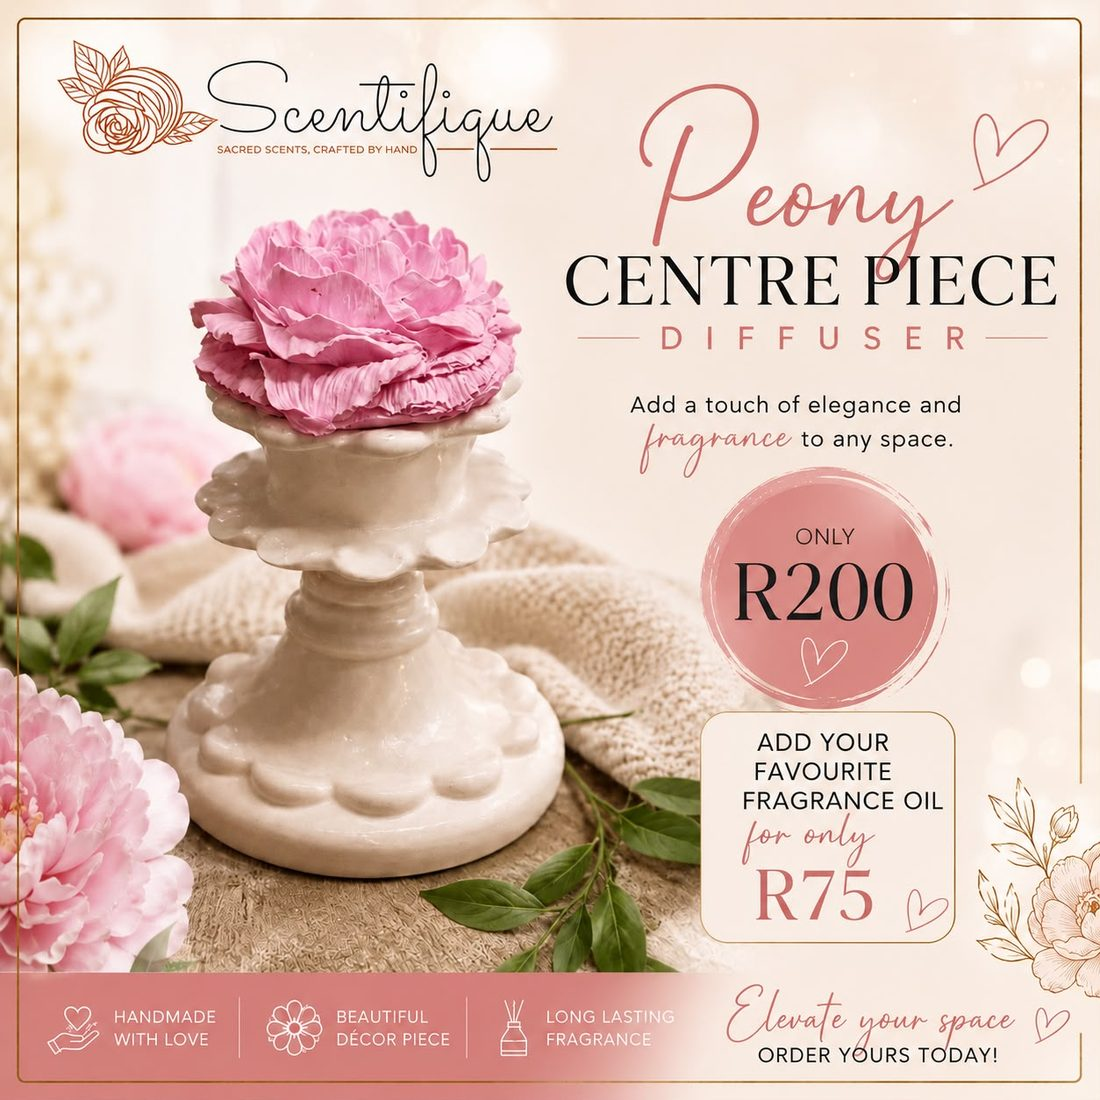
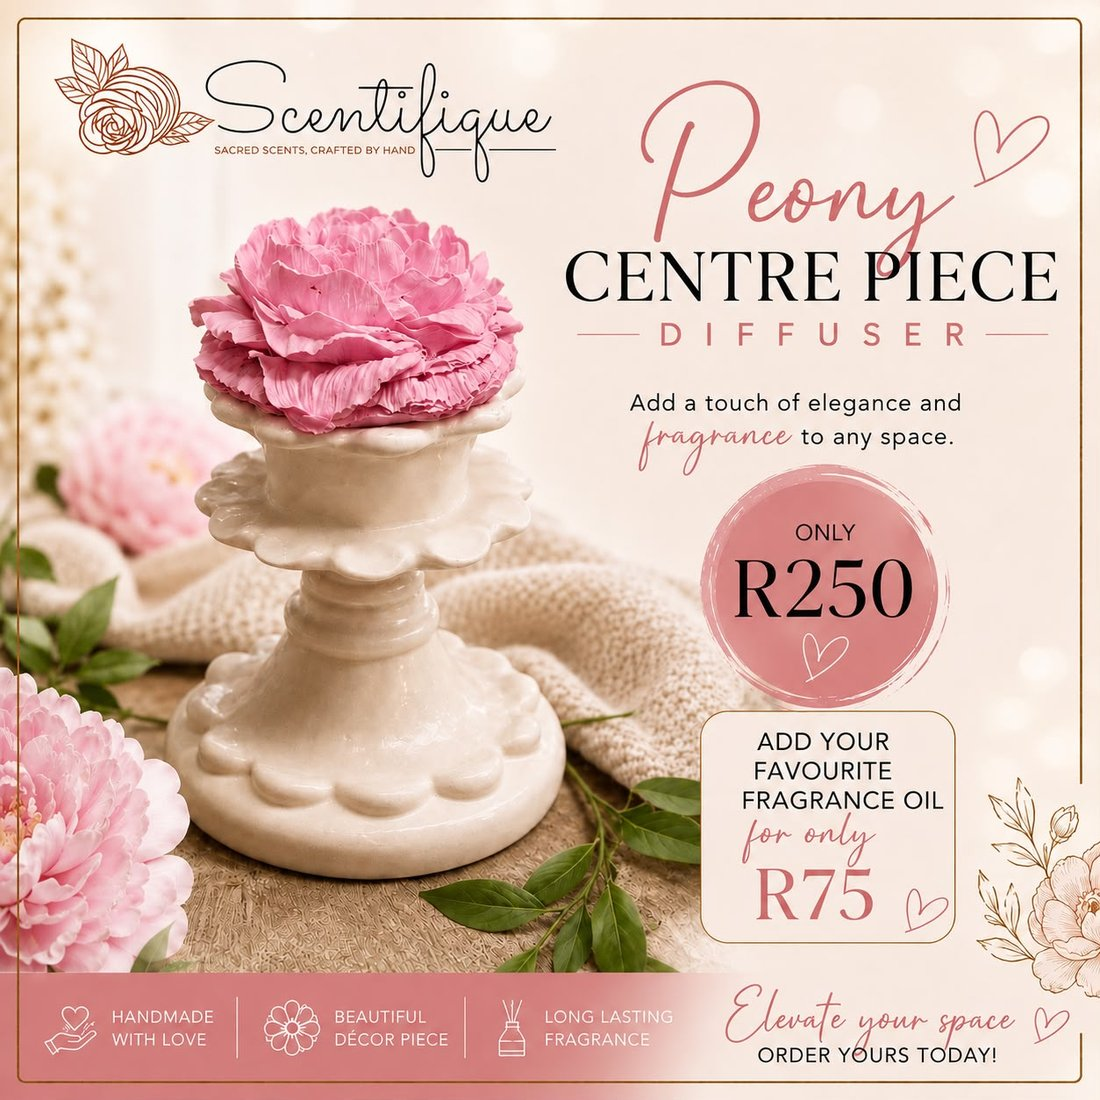
Scentifique price updates: Centre Piece Peony R200->R250, Heart Diffusers R130->R150
New card photos for both.

diff --git a/scentifique.html b/scentifique.html
@@ -353,7 +353,7 @@ footer{background:var(--bg2);border-top:1px solid var(--border);padding:40px 32p
         <div class="product-name">Centre Piece Peony Flower Diffuser</div>
         <div class="product-sub">Elegant pedestal base with a large peony flower diffuser — a stunning centrepiece for any room.</div>
         <div class="colour-note">Base colours: White · Cream · Marble Effect White/Cream<br/>Flower colours: Red · Soft Lilac · Romantic Pink · White · Mint Green · Yellow</div>
-        <div class="product-footer"><span class="product-price">R200</span><button class="add-btn" onclick="addToCart('Centre Piece Peony Diffuser (specify base &amp; flower colour)','R200','scentifique-centrepiece-peony.jpeg')">+ Add to Order</button></div>
+        <div class="product-footer"><span class="product-price">R250</span><button class="add-btn" onclick="addToCart('Centre Piece Peony Diffuser (specify base &amp; flower colour)','R250','scentifique-centrepiece-peony.jpeg')">+ Add to Order</button></div>
       </div>
     </div>
 
@@ -473,7 +473,7 @@ footer{background:var(--bg2);border-top:1px solid var(--border);padding:40px 32p
         <div class="badge badge-gold">Available</div>
         <div class="product-name">White Oval Tray with Heart Diffusers</div>
         <div class="product-sub">Two textured heart diffusers on a white oval tray — add fragrance oil or display as is.</div>
-        <div class="product-footer"><span class="product-price">R130</span><button class="add-btn" onclick="addToCart('White Oval Tray with Heart Diffusers','R130','scentifique-heart-tray.jpeg')">+ Add to Order</button></div>
+        <div class="product-footer"><span class="product-price">R150</span><button class="add-btn" onclick="addToCart('White Oval Tray with Heart Diffusers','R150','scentifique-heart-tray.jpeg')">+ Add to Order</button></div>
       </div>
     </div>
 
